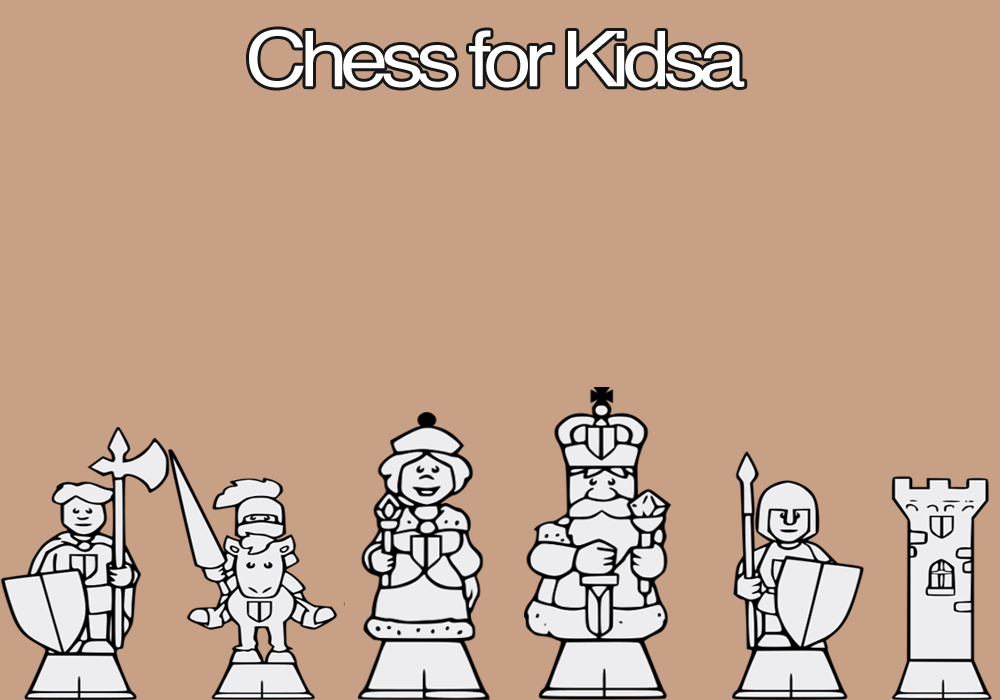
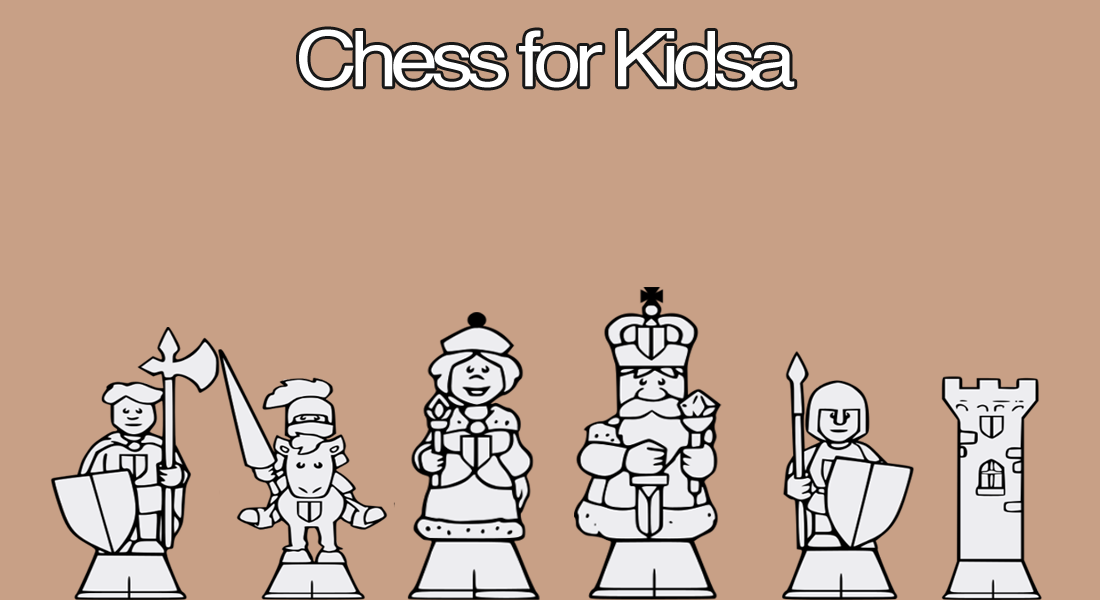
Made a mockup for the GUI

Changed region(s): [[0.0, 0.48, 0.682, 1.0], [0.713, 0.57, 0.992, 1.0], [0.248, 0.03, 0.744, 0.15]]

diff --git a/core/src/com/grnn/chess/states/PlayState.java b/core/src/com/grnn/chess/states/PlayState.java
@@ -15,7 +15,7 @@ public class PlayState extends State {
 
     public PlayState(GameStateManager gsm) {
         super(gsm);
-        bg = new Texture("sjakk2.png");
+        bg = new Texture("GUI.png");
         board = new Board();
         board.addPieces();
     }
@@ -27,8 +27,8 @@ public class PlayState extends State {
     public void render(SpriteBatch batch) {
         batch.begin();
         batch.draw(bg, 0, 0);
-        batch.draw(new Texture(board.getPieceAt(new Position(3,0)).getImage()),40,40);
-        batch.draw(new Texture(board.getPieceAt(new Position(3,1)).getImage()), 3*(600/9), 2*(600/9));
+       // batch.draw(new Texture(board.getPieceAt(new Position(3,0)).getImage()),40,40);
+       // batch.draw(new Texture(board.getPieceAt(new Position(3,1)).getImage()), 3*(600/9), 2*(600/9));
         batch.end();
     }
 

diff --git a/desktop/src/com/grnn/chess/desktop/DesktopLauncher.java b/desktop/src/com/grnn/chess/desktop/DesktopLauncher.java
@@ -7,8 +7,8 @@ import com.grnn.chess.ChessForKids;
 public class DesktopLauncher {
 	public static void main (String[] arg) {
 		LwjglApplicationConfiguration config = new LwjglApplicationConfiguration();
-		config.width = 1000;
-		config.height = 700;
+		config.width = 1100;
+		config.height = 600;
 		config.title = "Chess for kids";
 		config.resizable = false;
 		new LwjglApplication(new ChessForKids(), config);
